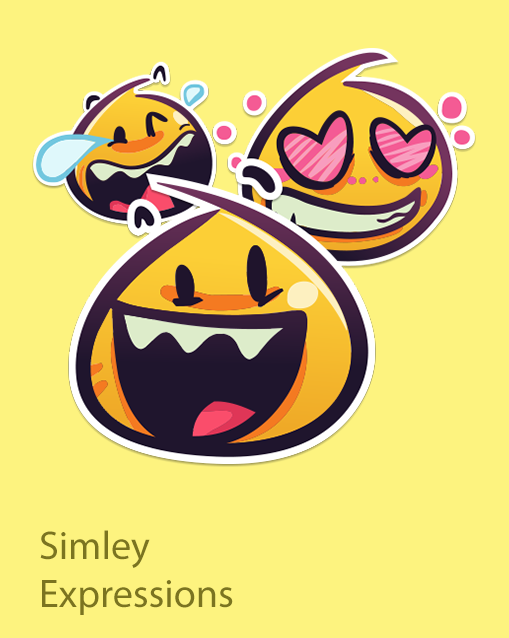
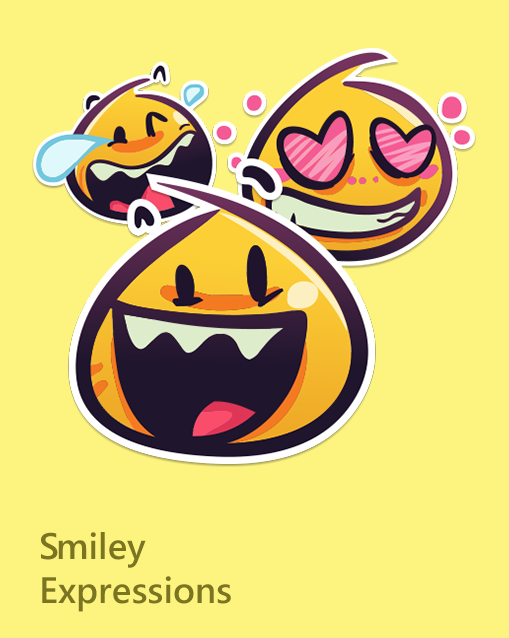
replaced the new overlays

Changed region(s): [[0.0884, 0.8339, 0.4715, 0.9828]]

diff --git a/windows-client/View/NewChatThread.xaml.cs b/windows-client/View/NewChatThread.xaml.cs
@@ -5719,7 +5719,7 @@ namespace windows_client.View
                         downloadDialogueImage.Source = UI_Utils.Instance.AvatarsOverlay;
                         break;
                     case StickerHelper.CATEGORY_SMILEY_EXPRESSIONS:
-                        downloadDialogueImage.Source = UI_Utils.Instance.ExpressionsOverlay;
+                        downloadDialogueImage.Source = UI_Utils.Instance.SmileyExpressionsOverlay;
                         break;
                 }
                 overlayRectangle.Tap += overlayRectangle_Tap_1;
